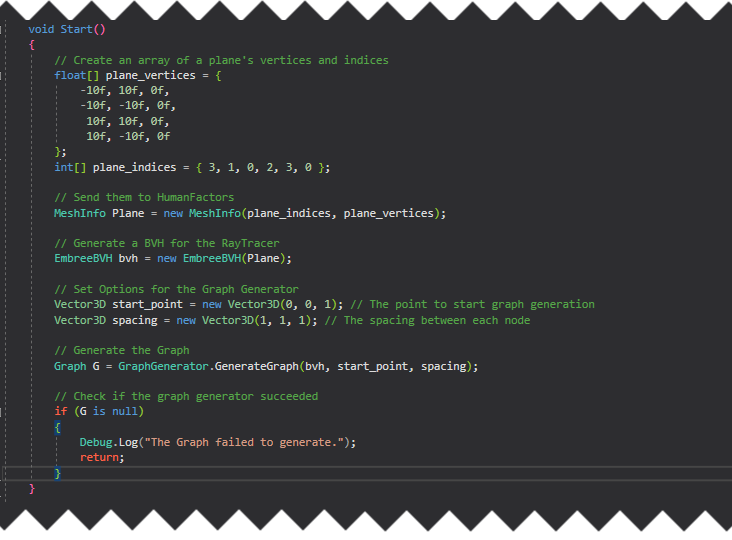
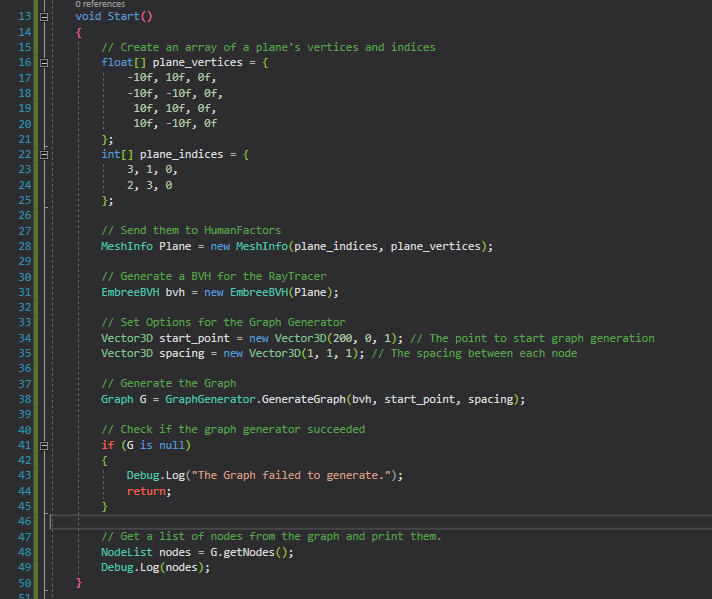
Add a section for handling graphs that failed to generate

Changed region(s): [[0.0, 0.0, 1.0, 1.0]]

diff --git a/docs/C# Documentation/markdown/3_graph_generator.md b/docs/C# Documentation/markdown/3_graph_generator.md
@@ -12,10 +12,11 @@ Next Tutorial: [Passing a Mesh From Unity to HumanFactors](@ref MeshFromUnity)
     - [Using Declarations](#using-declarations)
     - [Creating the Plane](#creating-the-plane)
     - [Generating the Graph](#generating-the-graph)
-    - [Retrieving A list of nodes](#retrieving-a-list-of-nodes)
+    - [Retrieving a list of nodes](#retrieving-a-list-of-nodes)
     - [Save and Test](#save-and-test)
-  - [Cases where the GraphGenerator fails](#cases-where-the-graphgenerator-fails)
+  - [Handling cases where a Graph could not be generated](#handling-cases-where-a-graph-could-not-be-generated)
     - [Checking for success](#checking-for-success)
+    - [Testing](#testing)
   - [Conclusion](#conclusion)
 
 ## Intro
@@ -30,11 +31,11 @@ In this tutorial we will cover the following:
 
 ### Conceptual Overview
 
-To put it simply, the **Graph Generator** maps out "accessible" space on a model from a given starting point. As the name implies, this map of the space is stored as a series of nodes and edges in a **Graph**. Each node represents a point in space that a human can occupy, and each edge between nodes indicates that a human can traverse from one node to another node. The Graph Generator is a powerful tool for analyzing space, since the graph or nodes it outputs can be used as input to all of the analysis methods offered by HumanFactors. This allows the user to go straight from modifying a model or scene, to analyzing it with minimal effort.
+To put it simply, the **Graph Generator** maps out "accessible" space on a model from a given starting point. As the name implies, this map of the space is stored as a series of nodes and edges in a **Graph**. Each node represents a point in space that a human can occupy, and each edge between nodes indicates that a human can traverse from one node to another node. The Graph Generator is a powerful tool for analyzing space, since the graph or nodes it outputs can be used as input to all the analysis methods offered by HumanFactors. This allows the user to go straight from modifying a model or scene, to analyzing it with minimal effort.
 
 ## Simple Graph Generation
 
-For now, we will begin with the minimum required settings to run the Graph Generator then work our way up to examples that make use of the optional settings. To generate a graph at minimum, the following arguments are requried:
+For now, we will begin with the minimum required settings to run the Graph Generator then work our way up to examples that make use of the optional settings. To generate a graph at minimum, the following arguments are required:
 
 1. A BVH containing the mesh you want to use for graph generation.
 2. A point to start graph generation at.
@@ -45,7 +46,7 @@ For now, we will begin with the minimum required settings to run the Graph Gener
 
 *Figure* **3.1** *Blank HFExampleScript.cs*
 
-To begin: open up the blank HFExample Script that we created in the project setup by double clicking on it in the Unity editor if it isn't open already. 
+To begin: open the blank HFExample Script that we created in the project setup by double clicking on it in the Unity editor if it isn't open already. 
 
 ### Using Declarations
 
@@ -65,9 +66,9 @@ using HumanFactors.RayTracing;
 
 ### Creating the Plane
 
-Internally, the graph uses the *EmbreeRayTracer* which requires a BVH, so we can follow the process as the [Project 2A](@ref UsingTheRayTracer) to create a plane, then generate a BVH from it. If you want a more in depth explanation of this code, please look at the previous tutorial if you want more information about this code.
+Internally, the graph uses the *EmbreeRayTracer* which requires a BVH, so we can follow the process as the [Project 2A](@ref UsingTheRayTracer) to create a plane, then generate a BVH from it. If you want a more in-depth explanation of this code, please look at the previous tutorial if you want more information about this code.
 
-Add the following code in the body of the Start function on line 13:
+Add the following code in the body of the Start method on line 13:
 
 ```{.cs}
         // Create the plane's vertex and index arrays
@@ -89,7 +90,7 @@ Add the following code in the body of the Start function on line 13:
         EmbreeBVH bvh = new EmbreeBVH(Plane);
 ```
 
-[Picture of the start function at this point](../assets/walkthroughs/unity/3_graph_generator/creating_the_plane.PNG)
+[Picture of the start method at this point](../assets/walkthroughs/unity/3_graph_generator/creating_the_plane.PNG)
 
 ### Generating the Graph
 
@@ -107,7 +108,7 @@ We'll use a spacing of one meter in each direction, so each node in our graph wi
         Vector3D spacing = new Vector3D(1, 1, 1);
 ```
 
-Finally we will call the GraphGenerator with these arguments.
+Finally, we will call the GraphGenerator with these arguments.
 
 ```{.cs}
         // Generate the Graph
@@ -127,7 +128,7 @@ All of that together is:
 
 [Picture of entire Start method until this point.](../assets/walkthroughs/unity/3_graph_generator/generating_the_graph.PNG)
 
-### Retrieving A list of nodes
+### Retrieving a list of nodes
 
 G now contains a graph of the accessible space on Plane using the settings we passed as arguments. To verify that our results are correct, we will get a list of nodes from the graph, then print them to the unity console.
 
@@ -166,7 +167,10 @@ public class HFExampleScript : MonoBehaviour
              10f, 10f, 0f,
              10f, -10f, 0f
         };
-        int[] plane_indices = { 3, 1, 0, 2, 3, 0 };
+        int[] plane_indices = { 
+                3, 1, 0,
+                2, 3, 0 
+        };
 
         // Send them to HumanFactors
         MeshInfo Plane = new MeshInfo(plane_indices, plane_vertices);
@@ -213,7 +217,7 @@ The process for testing this script is identical to the process in [The Raytrace
 
 *Figure* **3.4** *How to view the Console Tab*
 
-Like in the previous tutorial, the output is at the bottom of the screen, but it doesn't fit in on one line so it's cut off. To get a better view, click on the output itself, or click on the console tab circled in Figure 3.4 to view the console
+Like in the previous tutorial, the output is at the bottom of the screen, but it doesn't fit in on one line, so it's cut off. To get a better view, click on the output itself, or click on the console tab circled in Figure 3.4 to view the console
 
 ![View Console](../assets/walkthroughs/unity/3_graph_generator/console_view.png)
 
@@ -225,17 +229,28 @@ Once in the console window, click on the message containing our output, highligh
 [(0.000,0.000,0.000), (-1.000,-1.000,0.000), (-1.000,0.000,0.000), (-1.000,1.000,0.000), (0.000,-1.000,0.000), . . . (10.000,7.000,0.000), (10.000,8.000,0.000), (10.000,9.000,0.000), (10.000,10.000,0.000)]
 ```
 
-> **Note:**  this is not the full list of nodes. The list has been truncated due to the size of the output. In order to view every node we'll have to print them in a loop.
+> **Note:**  this is not the full list of nodes. The list has been truncated due to the size of the output. To view every node, we'll have to print them in a loop.
 
-Confirm your results match, then switch back to the previous view by clicking on the Project tab circled in red in Figure 3.5. After that, exit playmode by clicking on the blue play button at the top of the screen. If you've reached this point then you have successfully generated a Graph using Human Factors and have completed this part of the tutorial. Next we will cover cases where the graph generator will be unable to generate a graph, and how to handle if a graph could not be generated.
+Confirm your results match, then switch back to the previous view by clicking on the Project tab circled in red in Figure 3.5. After that, exit playmode by clicking on the blue play button at the top of the screen. If you've reached this point, then you have successfully generated a Graph using Human Factors and have completed this part of the tutorial. Next we will cover cases where the graph generator will be unable to generate a graph, and how to handle if a graph could not be generated.
 
-## Cases where the GraphGenerator fails
+## Handling cases where a Graph could not be generated
 
-We've covered situations where we know the GraphGenerator will generate a graph, however what about sitauations where we're taking user input, or operating on a new model.
+We've covered situations where we know the GraphGenerator will generate a graph, however it's important to know what happens in situations where it is unknown if a graph can be generated because we're taking user input, operating on a new model, or making changes to the geometry we're generating the graph on.
+
+
+ A Graph can fail to generate if at least one of the two cases is true:
+
+1. The initial ground check didn't intersect with any geometry, usually means the start point wasn't over the ground.
+2. The graph couldn't generate any nodes after the initial ground check. Some examples of this are.
+   - The ground check was in a space too narrow to generate any extra nodes given the current spacing
+   - The start point was on a slope too steep for the upslope/downslope to traverse up or down.
+   - The start point is in a wall, making it impossible to generate any nodes around it.
+
+This tutorial will cover safely handling cases where graphs could not be generated by checking the return value of the graph generator.
 
 ### Checking for success
 
-Before interacting with the returned value, we need to check if the Graph Generator was able to generate a graph from our input. If the Graph Generator could not generate any connections from the start point, or the start point was not over any solid ground, the graph will fail to generate and the Graph Generator will return a null value. Let's add a null check just after the graph is generated.
+If the Graph Generator failed due to one of the two cases listed above, a null value will be returned instead of a graph. To catch when this happens, let's add a null check just after the graph is generated on *Line 41*.
 
 ```{.cs}
         // Check if the graph generator succeeded
@@ -245,12 +260,24 @@ Before interacting with the returned value, we need to check if the Graph Genera
         }
 ```
 
-![Checking For Success](../assets/walkthroughs/unity/3_graph_generator/checking_for_success.PNG)
+Now, if the graph fails to generate,  our code will print a clear error message and immediately stop executing the script. If we did not have this check and our graph did fail to generate, then we would get a confusing Null Reference Exception later when interacting with the graph.  
 
-Now, if the graph fails to generate, Unity will print our nice error message and stop executing the script instead of later throwing a null reference exception when we try to interact with it.
+### Testing
+
+To test that our null check is successful, we'll go to line 34 and change our start point to be at (200, 0, 1) instead of (0,0,1): `Vector3D start_point = new Vector3D(200, 0, 1);` This is far, far beyond where our plane is and should result in case 1: the initial ground check failing to find any valid ground.
+
+[Picture of the full Start() method for this test.](../assets/walkthroughs/unity/3_graph_generator/checking_for_success.PNG)
+
+Since the camera is already setup all we need to do is enter playmode to test this. Make sure your code matches the picture, **save** the file, minimize Visual Studio, open the Unity editor, then press the play button. 
+
+![Failure](../assets/walkthroughs/unity/3_graph_generator/failure.PNG)
+
+*Figure* **3.5** *Error message printed after the graph failed to generate* 
+
+If you did this correctly, then the error message we wrote earlier should appear instead of the output from the previous section. If you received this result, then you now know how to handle cases where the graph generator could not generate a graph.
 
 ## Conclusion
 
-Here is a link the the full project created in this guide: [Full Project](../assets/walkthroughs/unity/3_graph_generator/Tutorial%203%20-%20Graph%20Generator.zip)
+Here is a link the full project created in this guide: [Full Project](../assets/walkthroughs/unity/3_graph_generator/Tutorial%203%20-%20Graph%20Generator.zip)
 
 In the next tutorial, [Reading Meshes From Unity](4_reading_a_mesh_from_unity.md), we will use geometry from the unity scene to generate a graph, instead of generating our own plane. 
